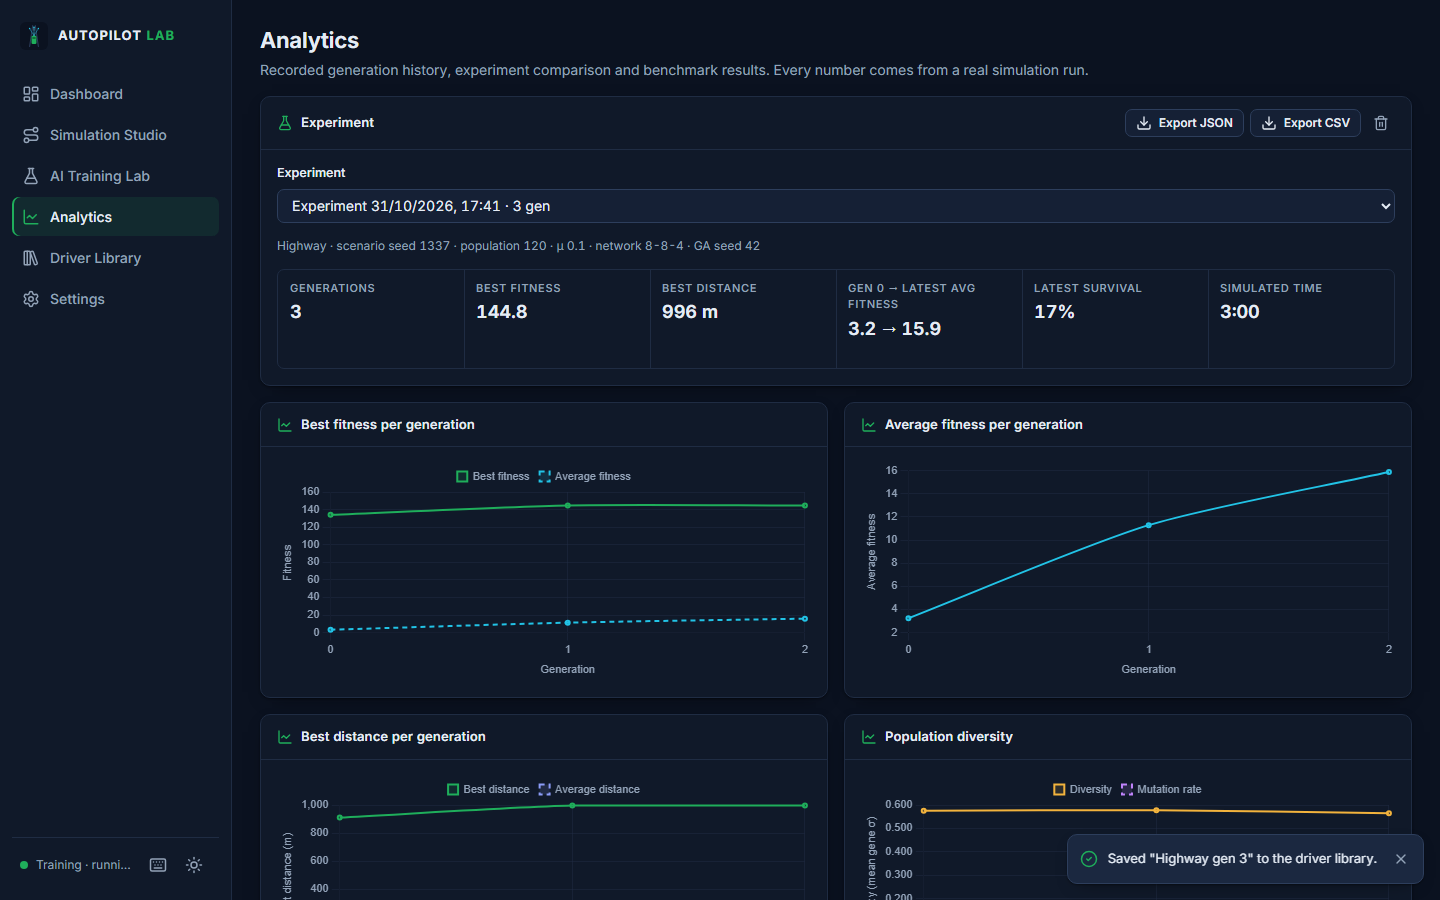
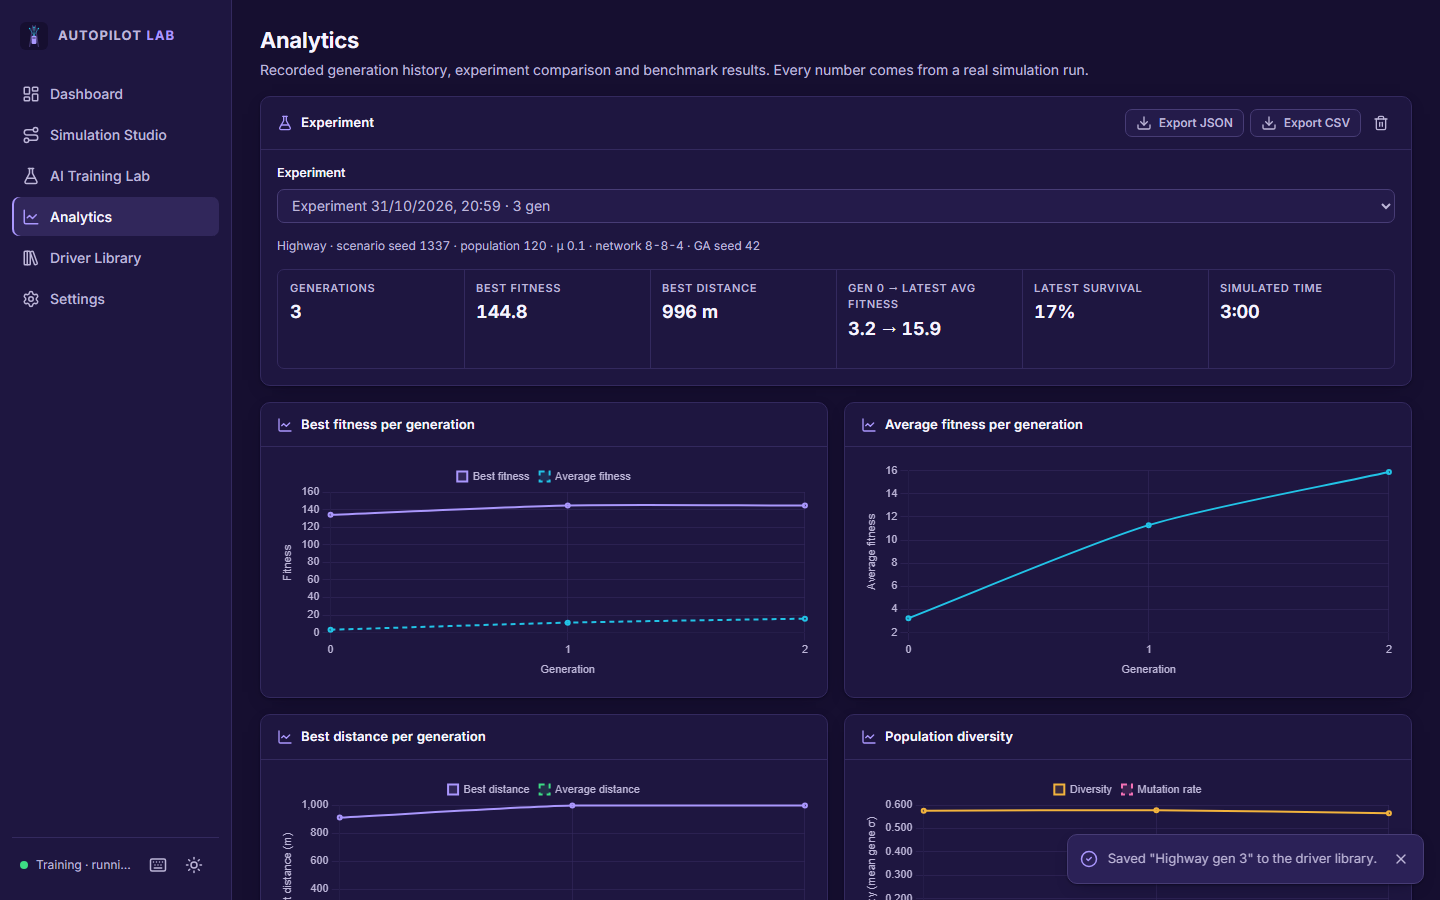
Apply deep-purple colour palette
Dark theme uses the new palette (background #160F30, raised #1E1640,
cards #241B4A, text #F6F4FF / #BDB6D8 / #9F97BF, borders #33295E /
#473C75, violet accent #AA97FD). Running/OK states keep a separate green
so status stays readable. Light theme gets a matching darker violet
accent. App icon, offline page, theme-color and screenshots updated.

diff --git a/src/ui/styles/main.css b/src/ui/styles/main.css
@@ -12,45 +12,47 @@
 
 :root[data-theme='dark'] {
   color-scheme: dark;
-  --bg: #0b1220;
-  --surface: #101929;
-  --surface-2: #152035;
-  --surface-3: #1b2840;
-  --border: #1f2c43;
-  --border-strong: #2d3e5c;
-  --text: #e5ecf5;
-  --text-muted: #93a3b8;
-  --text-faint: #5d6d85;
-  --accent: #1fae5b;
-  --accent-strong: #26c568;
-  --accent-ink: #03150a;
-  --accent-soft: #1fae5b1f;
+  --bg: #160f30;
+  --surface: #1e1640;
+  --surface-2: #241b4a;
+  --surface-3: #2b2157;
+  --border: #33295e;
+  --border-strong: #473c75;
+  --text: #f6f4ff;
+  --text-body: #bdb6d8;
+  --text-muted: #bdb6d8;
+  --text-faint: #9f97bf;
+  --accent: #aa97fd;
+  --accent-strong: #bcadfe;
+  --accent-ink: #160f30;
+  --accent-soft: #aa97fd24;
   --accent-2: #22c3e6;
-  --danger: #ef5b5b;
+  --success: #3ddc84;
+  --danger: #ff6b7a;
   --warn: #f2b33d;
-  --shadow: 0 1px 2px #0006, 0 6px 20px -12px #000c;
-  --chart-grid: #1f2c4380;
-  --weight-pos: #1fae5b;
-  --weight-neg: #ef6b5b;
-  --series-1: #1fae5b;
+  --shadow: 0 1px 2px #0a061a99, 0 6px 20px -12px #0a061acc;
+  --chart-grid: #33295e99;
+  --weight-pos: #3ddc84;
+  --weight-neg: #ff6b7a;
+  --series-1: #aa97fd;
   --series-2: #22c3e6;
-  --series-3: #8b9cf7;
+  --series-3: #3ddc84;
   --series-4: #f2b33d;
-  --series-5: #c084fc;
-  --series-6: #ef5b5b;
-  --sim-ground: #0c1424;
-  --sim-ground-alt: #0f1a2c;
-  --sim-road: #1c2535;
-  --sim-lane: #c7d1de;
-  --sim-edge: #e5ecf5;
-  --sim-marker: #3b4c68;
-  --sim-tree: #12301f;
-  --sim-building: #18233a;
-  --traffic-1: #8b9cf7;
-  --traffic-2: #c7d1de;
-  --traffic-3: #e48f6b;
-  --traffic-4: #b394f0;
-  --traffic-truck: #6f7f99;
+  --series-5: #f472b6;
+  --series-6: #ff6b7a;
+  --sim-ground: #130d2a;
+  --sim-ground-alt: #170f33;
+  --sim-road: #2a2150;
+  --sim-lane: #bdb6d8;
+  --sim-edge: #f6f4ff;
+  --sim-marker: #473c75;
+  --sim-tree: #1d3a34;
+  --sim-building: #2b2157;
+  --traffic-1: #5fb3f9;
+  --traffic-2: #d9d4ee;
+  --traffic-3: #f0916b;
+  --traffic-4: #f472b6;
+  --traffic-truck: #7d74a3;
 }
 
 :root[data-theme='light'] {
@@ -62,20 +64,22 @@
   --border: #dde3ec;
   --border-strong: #c3ccd9;
   --text: #0f1a2b;
+  --text-body: #0f1a2b;
   --text-muted: #546275;
   --text-faint: #8a96a8;
-  --accent: #0b8a45;
-  --accent-strong: #0a7a3d;
+  --accent: #6d4fe0;
+  --accent-strong: #5b3fcc;
   --accent-ink: #ffffff;
-  --accent-soft: #0b8a4514;
+  --accent-soft: #6d4fe014;
   --accent-2: #0891b2;
+  --success: #0b8a45;
   --danger: #d33d3d;
   --warn: #c98a0e;
   --shadow: 0 1px 2px #0f1a2b14, 0 8px 24px -16px #0f1a2b40;
   --chart-grid: #dde3ec;
   --weight-pos: #0b8a45;
   --weight-neg: #d6453d;
-  --series-1: #0b8a45;
+  --series-1: #6d4fe0;
   --series-2: #0891b2;
   --series-3: #5b6ee1;
   --series-4: #c98a0e;
@@ -92,7 +96,7 @@
   --traffic-1: #5b6ee1;
   --traffic-2: #e8ecf2;
   --traffic-3: #d9774e;
-  --traffic-4: #9b51e0;
+  --traffic-4: #d6458f;
   --traffic-truck: #2b3445;
 }
 
@@ -109,10 +113,23 @@ body {
 }
 body {
   background: var(--bg);
-  color: var(--text);
+  color: var(--text-body);
   font: 14px/1.5 var(--font);
   -webkit-font-smoothing: antialiased;
   font-feature-settings: 'cv11', 'ss01', 'tnum';
+}
+h1,
+h2,
+h3,
+strong,
+.stat-value,
+.list-title,
+.field-label,
+.hud-big {
+  color: var(--text);
+}
+a:not(.btn, .nav-link, .brand, .skip-link) {
+  color: var(--accent);
 }
 h1,
 h2,
@@ -278,7 +295,7 @@ textarea {
   flex: none;
 }
 .run-dot[data-state='running'] {
-  background: var(--accent);
+  background: var(--success);
 }
 .run-dot[data-state='paused'] {
   background: var(--warn);
@@ -780,11 +797,11 @@ input[type='range']:disabled {
   background: var(--text-faint);
 }
 .status-running {
-  color: var(--accent);
-  border-color: color-mix(in srgb, var(--accent) 45%, transparent);
+  color: var(--success);
+  border-color: color-mix(in srgb, var(--success) 45%, transparent);
 }
 .status-running .status-dot {
-  background: var(--accent);
+  background: var(--success);
   animation: pulse 1.6s ease-in-out infinite;
 }
 .status-paused .status-dot {
@@ -913,7 +930,7 @@ html.vp-max {
   border: 1px solid var(--border);
 }
 .hud-chip[data-tone='ok'] {
-  color: var(--accent);
+  color: var(--success);
 }
 .hud-chip[data-tone='bad'] {
   color: var(--danger);

diff --git a/public/offline.html b/public/offline.html
@@ -10,8 +10,8 @@
         min-height: 100vh;
         display: grid;
         place-items: center;
-        background: #0b1220;
-        color: #e5ecf5;
+        background: #160f30;
+        color: #f6f4ff;
         font:
           15px/1.5 system-ui,
           sans-serif;
@@ -24,13 +24,13 @@
         margin: 16px 0 6px;
       }
       p {
-        color: #93a3b8;
+        color: #bdb6d8;
         max-width: 420px;
         margin: 0 auto 18px;
       }
       button {
-        background: #1fae5b;
-        color: #03150a;
+        background: #aa97fd;
+        color: #160f30;
         border: 0;
         border-radius: 7px;
         padding: 10px 16px;

diff --git a/scripts/icons.ts b/scripts/icons.ts
@@ -13,7 +13,7 @@ for (const [size, file, pad] of [
   await page.setViewportSize({ width: size, height: size });
   const inner = Math.round(size * (1 - pad * 2));
   await page.setContent(
-    `<body style="margin:0;background:#0b1220;display:grid;place-items:center;width:${size}px;height:${size}px">` +
+    `<body style="margin:0;background:#160f30;display:grid;place-items:center;width:${size}px;height:${size}px">` +
       `<div style="width:${inner}px;height:${inner}px">${svg.replace('<svg ', `<svg width="${inner}" height="${inner}" `)}</div></body>`,
   );
   await page.screenshot({ path: `public/icons/${file}`, omitBackground: pad === 0 });

diff --git a/index.html b/index.html
@@ -7,7 +7,7 @@
       name="description"
       content="Autopilot Lab — train neural-network drivers with a genetic algorithm in a top-down driving simulation. Runs entirely in your browser."
     />
-    <meta name="theme-color" content="#0b1220" />
+    <meta name="theme-color" content="#160f30" />
     <meta
       http-equiv="Content-Security-Policy"
       content="default-src 'self'; script-src 'self'; worker-src 'self' blob:; style-src 'self' 'unsafe-inline'; img-src 'self' data: blob:; font-src 'self' data:; connect-src 'self'; object-src 'none'; base-uri 'self'; form-action 'none'"

diff --git a/src/app/preferences.ts b/src/app/preferences.ts
@@ -77,7 +77,7 @@ export function resolveQuality(q: Quality): ResolvedQuality {
 export function applyTheme(theme: Theme): void {
   const dark = theme === 'dark' || (theme === 'system' && matchMedia('(prefers-color-scheme: dark)').matches);
   document.documentElement.dataset.theme = dark ? 'dark' : 'light';
-  document.querySelector('meta[name="theme-color"]')?.setAttribute('content', dark ? '#0b1220' : '#f4f6f9');
+  document.querySelector('meta[name="theme-color"]')?.setAttribute('content', dark ? '#160f30' : '#f4f6f9');
   window.dispatchEvent(new Event('themechange'));
 }
 
